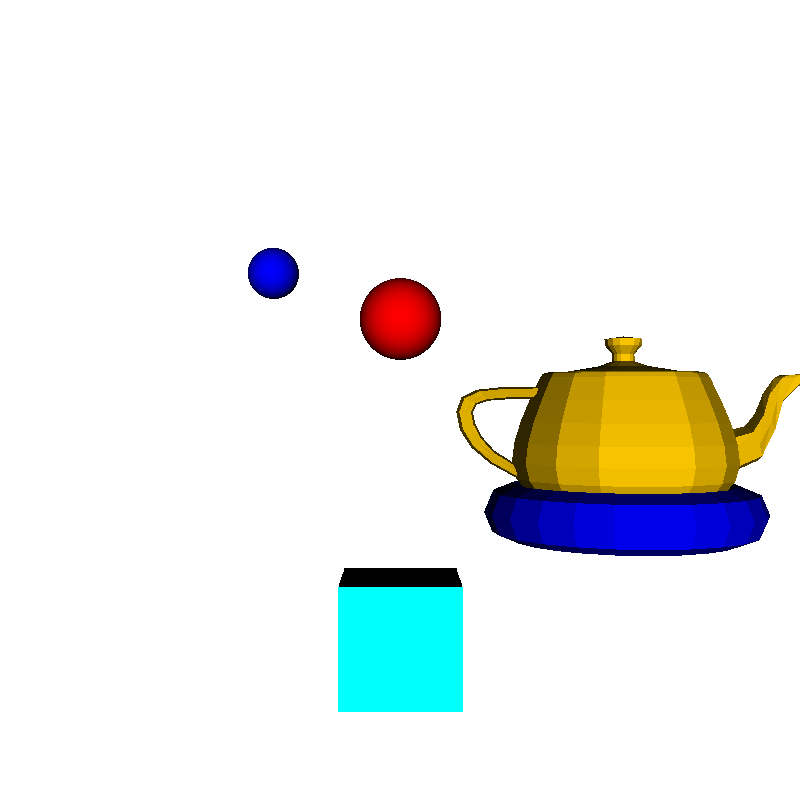
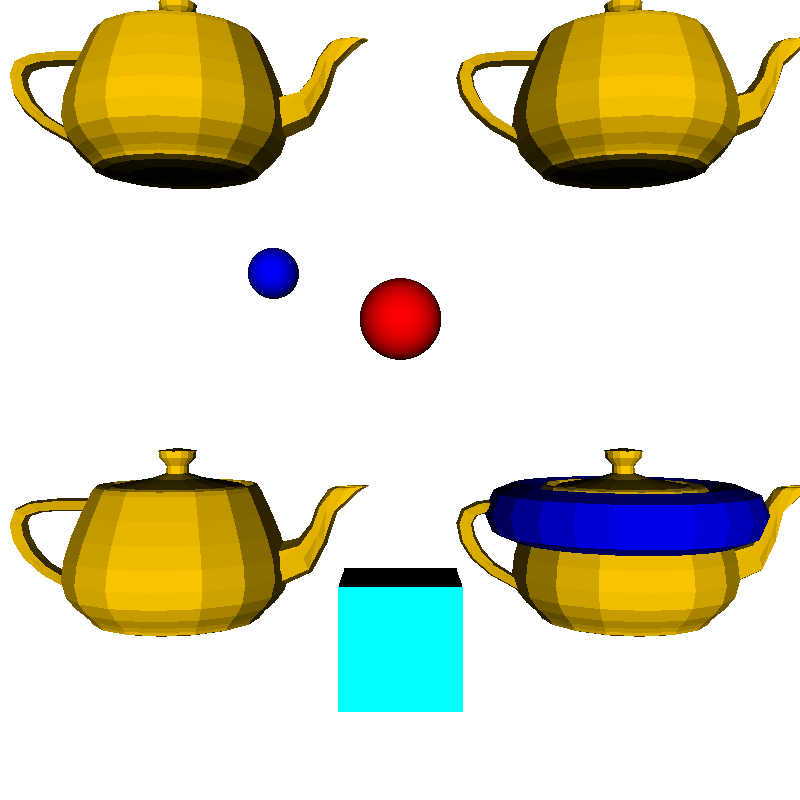
Testing Light

diff --git a/src/raytracer/Raytracer.java b/src/raytracer/Raytracer.java
@@ -44,7 +44,10 @@ public class Raytracer {
 		sceneRoot.addObject(new Sphere(new Vector3D(0f, 1f, 5f), 0.5f, Color.RED));
 		sceneRoot.addObject(new Sphere(new Vector3D(-1.5f, 1.5f, 4.5f), 0.3f, Color.BLUE));
 		sceneRoot.addObject(OBJReader.GetPolygon("Cube.obj", new Vector3D(0f, -2.5f, 1f), Color.CYAN));
-		sceneRoot.addObject(OBJReader.GetPolygon("smallTeapot.obj", new Vector3D(2f, -1.0f, 1.5f), Color.ORANGE));
+		sceneRoot.addObject(OBJReader.GetPolygon("smallTeapot.obj", new Vector3D(2f, 2f, 1.5f), Color.ORANGE));
+		sceneRoot.addObject(OBJReader.GetPolygon("smallTeapot.obj", new Vector3D(2f, -2f, 1.5f), Color.ORANGE));
+		sceneRoot.addObject(OBJReader.GetPolygon("smallTeapot.obj", new Vector3D(-2f, -2f, 1.5f), Color.ORANGE));
+		sceneRoot.addObject(OBJReader.GetPolygon("smallTeapot.obj", new Vector3D(-2f, 2.0f, 1.5f), Color.ORANGE));
 		sceneRoot.addObject(OBJReader.GetPolygon("ring.obj", new Vector3D(2f, -1.0f, 1.5f), Color.blue));
 		//sceneRoot.addObject(OBJReader.GetPolygon("lowpoly.obj", new Vector3D(2f, -1.0f, 20f), Color.MAGENTA));
 		
